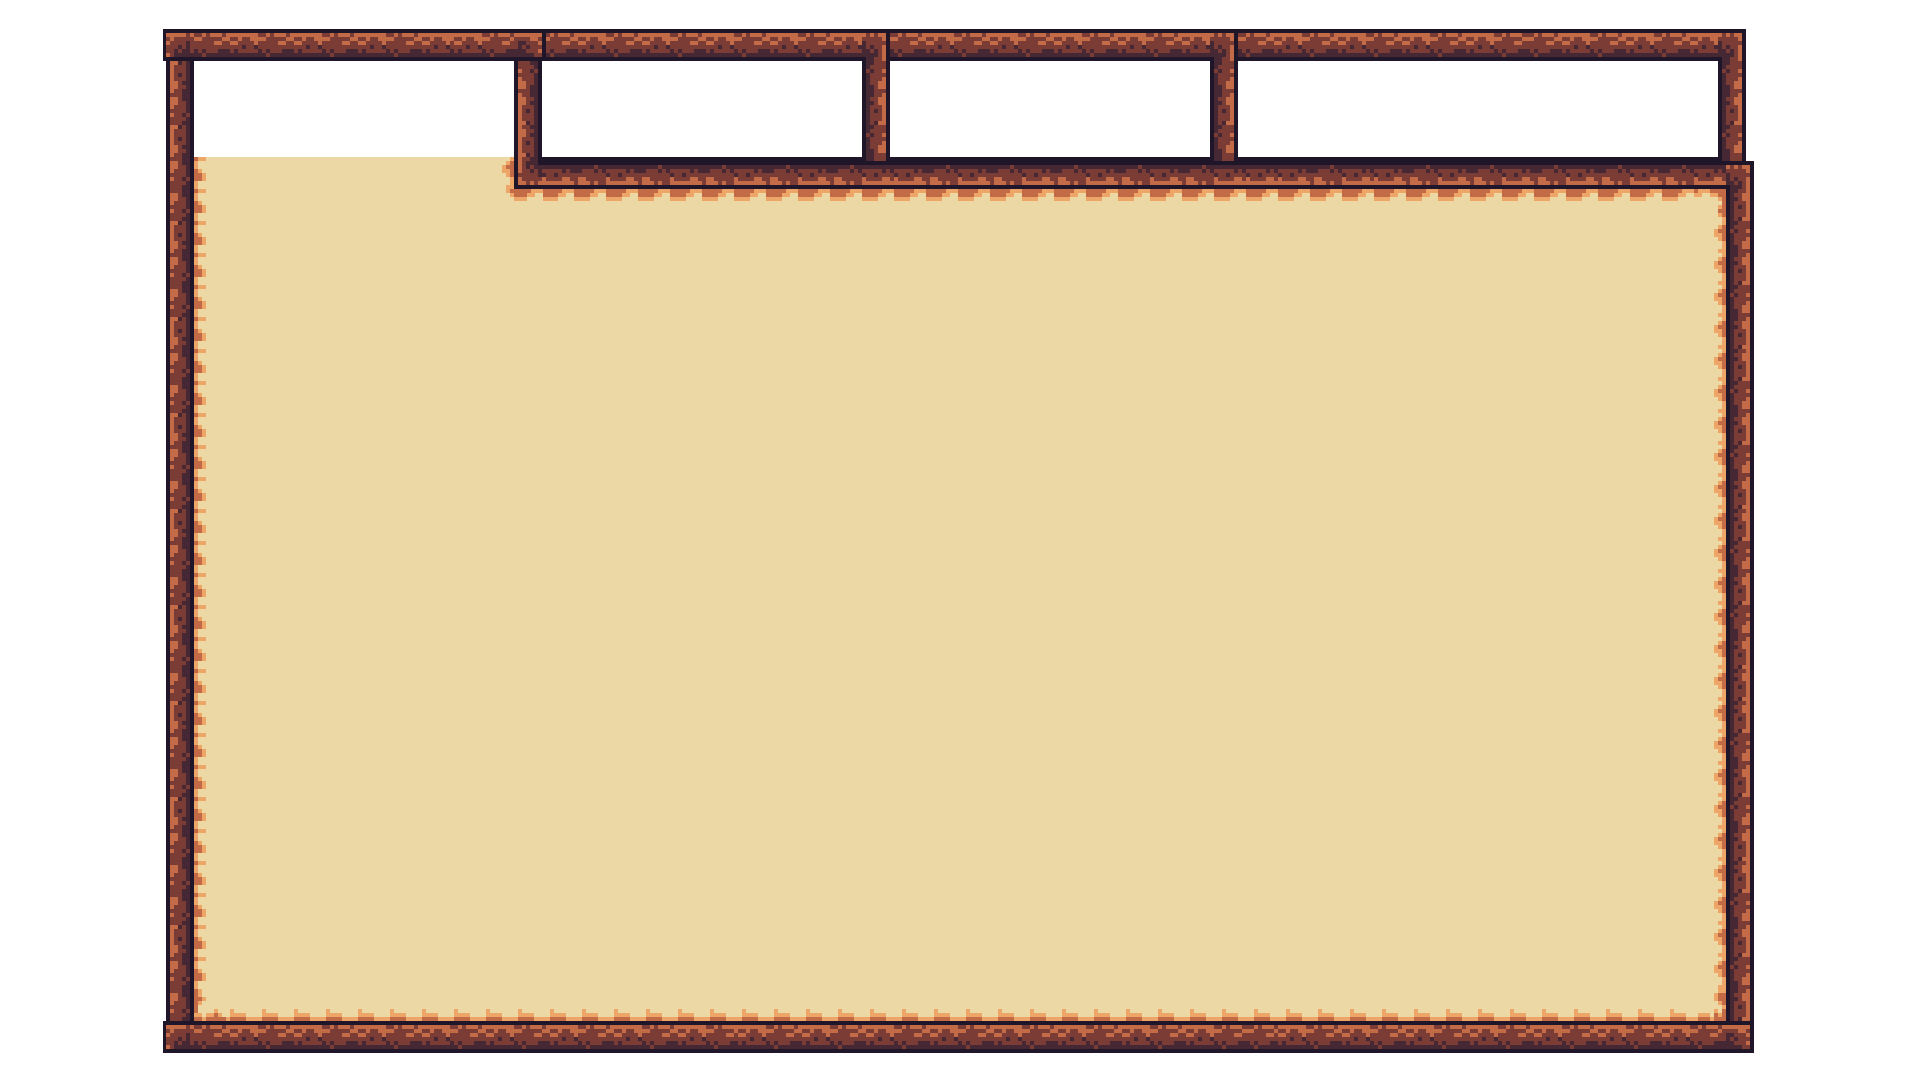
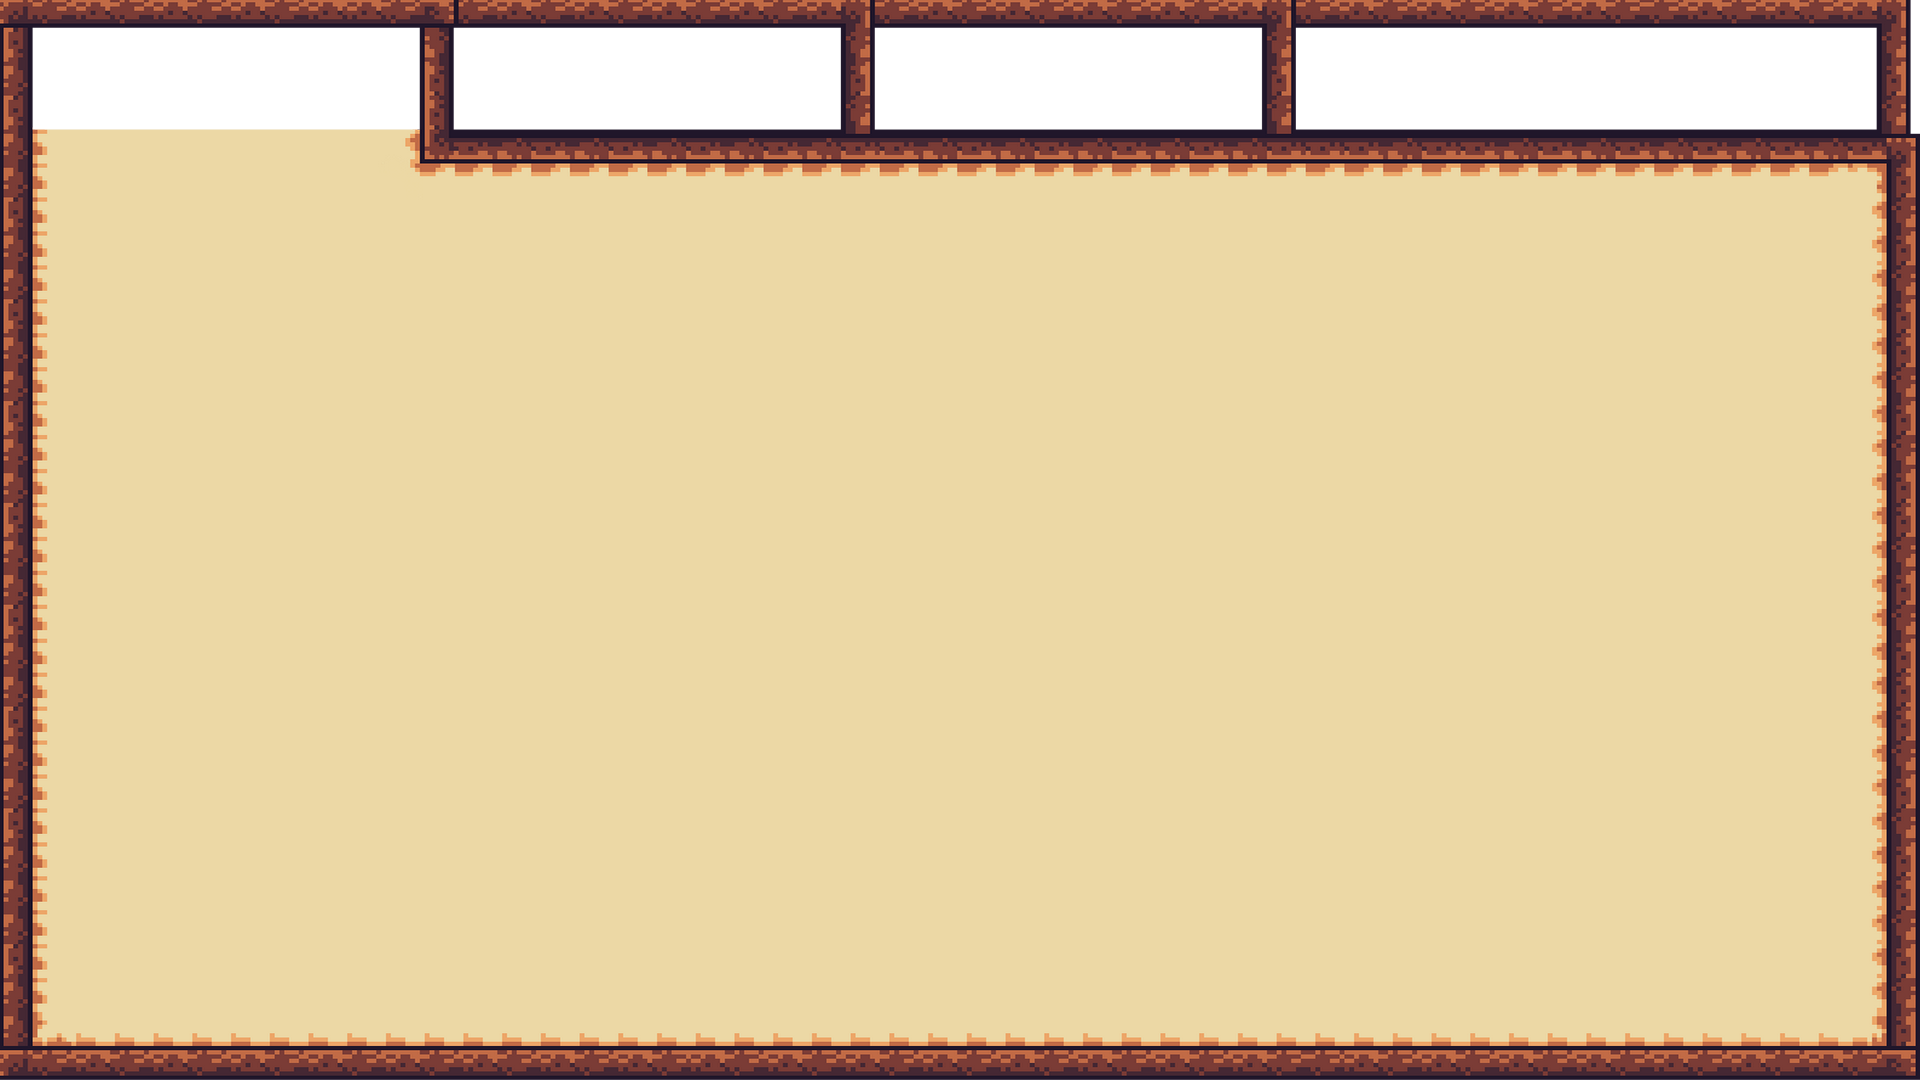
feat (menu.c): add animation on menu

diff --git a/src/display/display_menu_player.c b/src/display/display_menu_player.c
@@ -9,16 +9,16 @@
 #include "printf.h"
 #include "rpg.h"
 
-void display_stat(game_t *game, sfEvent *event)
+void display_player(game_t *game, sfEvent *event)
 {
     for (int e = 0; game->scenes[MENU_PLAYER].elements[e]; e++)
         draw_element(game->window, game->scenes[MENU_PLAYER].elements[e]);
     for (int b = 0; game->scenes[MENU_PLAYER].buttons[b]; b++) {
         if (event->type == sfEvtMouseButtonPressed &&
-            is_click(game, b, MENU_PLAYER)) {
+            is_click(game, b, MENU_PLAYER) && b != 0) {
             draw_clicked(game->window, game->scenes[MENU_PLAYER].buttons[b]);
             game->scenes[MENU_PLAYER].buttons[b]->action_clicked(game, b);
-        } else if (is_hoover(game, b, MENU_PLAYER))
+        } else if (is_hoover(game, b, MENU_PLAYER) && b != 0)
             draw_hoover(game->window, game->scenes[MENU_PLAYER].buttons[b]);
         else
             draw_button(game->window, game->scenes[MENU_PLAYER].buttons[b]);
@@ -35,23 +35,66 @@ void display_inventory(game_t *game, sfEvent *event)
         draw_element(game->window, game->scenes[MENU_PLAYER].elements[e]);
     for (int b = 0; game->scenes[MENU_PLAYER].buttons[b]; b++) {
         if (event->type == sfEvtMouseButtonPressed &&
-            is_click(game, b, MENU_PLAYER)) {
+            is_click(game, b, MENU_PLAYER) && b != 3) {
             draw_clicked(game->window, game->scenes[MENU_PLAYER].buttons[b]);
             game->scenes[MENU_PLAYER].buttons[b]->action_clicked(game, b);
-        } else if (is_hoover(game, b, MENU_PLAYER))
+        } else if (is_hoover(game, b, MENU_PLAYER) && b != 3)
             draw_hoover(game->window, game->scenes[MENU_PLAYER].buttons[b]);
         else
             draw_button(game->window, game->scenes[MENU_PLAYER].buttons[b]);
     }
-    return;
+}
+
+void display_stat(game_t *game, sfEvent *event)
+{
+    for (int e = 0; game->scenes[MENU_PLAYER].elements[e]; e++)
+        draw_element(game->window, game->scenes[MENU_PLAYER].elements[e]);
+    for (int b = 0; game->scenes[MENU_PLAYER].buttons[b]; b++) {
+        if (event->type == sfEvtMouseButtonPressed &&
+            is_click(game, b, MENU_PLAYER) && b != 1) {
+            draw_clicked(game->window, game->scenes[MENU_PLAYER].buttons[b]);
+            game->scenes[MENU_PLAYER].buttons[b]->action_clicked(game, b);
+        } else if (is_hoover(game, b, MENU_PLAYER) && b != 1)
+            draw_hoover(game->window, game->scenes[MENU_PLAYER].buttons[b]);
+        else
+            draw_button(game->window, game->scenes[MENU_PLAYER].buttons[b]);
+    }
+}
+
+void display_quest(game_t *game, sfEvent *event)
+{
+    for (int e = 0; game->scenes[MENU_PLAYER].elements[e]; e++)
+        draw_element(game->window, game->scenes[MENU_PLAYER].elements[e]);
+    for (int b = 0; game->scenes[MENU_PLAYER].buttons[b]; b++) {
+        if (event->type == sfEvtMouseButtonPressed &&
+            is_click(game, b, MENU_PLAYER) && b != 2) {
+            draw_clicked(game->window, game->scenes[MENU_PLAYER].buttons[b]);
+            game->scenes[MENU_PLAYER].buttons[b]->action_clicked(game, b);
+        } else if (is_hoover(game, b, MENU_PLAYER) && b != 2)
+            draw_hoover(game->window, game->scenes[MENU_PLAYER].buttons[b]);
+        else
+            draw_button(game->window, game->scenes[MENU_PLAYER].buttons[b]);
+    }
+    draw_text("NO QUEST ACTUALLY", 80, (sfVector2f){400, 600}, game->window);
 }
 
 void display_menu_player(game_t *game, sfEvent *event)
 {
+    for (int i = 0; game->scenes[MENU_PLAYER].buttons[i]; i++){
+        sfTexture_destroy(game->scenes[MENU_PLAYER].buttons[i]->base->texture);
+        game->scenes[MENU_PLAYER].buttons[i]->base->texture = sfTexture_createFromFile("ressources/UI/button1.png", NULL);
+        sfSprite_setTexture(game->scenes[MENU_PLAYER].buttons[i]->base->sprite, game->scenes[MENU_PLAYER].buttons[i]->base->texture, true);
+    }
+    game->scenes[MENU_PLAYER].buttons[game->scenes[MENU_PLAYER].tab->page]->base->texture = sfTexture_createFromFile("ressources/UI/button_menu.png", NULL);
+    sfSprite_setTexture(game->scenes[MENU_PLAYER].buttons[game->scenes[MENU_PLAYER].tab->page]->base->sprite, game->scenes[MENU_PLAYER].buttons[game->scenes[MENU_PLAYER].tab->page]->base->texture, true);
     switch(game->scenes[MENU_PLAYER].tab->page) {
-        case 0: display_stat(game, event);
+        case 0: display_player(game, event);
             break;
-        case 1: display_inventory(game, event);
+        case 1: display_stat(game, event);
+            break;
+        case 2: display_quest(game, event);
+            break;
+        case 3: display_inventory(game, event);
             break;
     }
 }

diff --git a/src/initialize/init_menu_player.c b/src/initialize/init_menu_player.c
@@ -9,39 +9,61 @@
 #include "printf.h"
 #include "rpg.h"
 
-void go_to_inventory(game_t* game, ...)
-{
-    game->scenes[MENU_PLAYER].tab->page = 1;
-}
-
-void go_to_stat(game_t* game, ...)
+void go_to_player(game_t* game, ...)
 {
     game->scenes[MENU_PLAYER].tab->page = 0;
 }
 
+void go_to_stat(game_t* game, ...)
+{
+    game->scenes[MENU_PLAYER].tab->page = 1;
+}
+
+void go_to_quest(game_t* game, ...)
+{
+    game->scenes[MENU_PLAYER].tab->page = 2;
+}
+
+void go_to_inventory(game_t* game, ...)
+{
+    game->scenes[MENU_PLAYER].tab->page = 3;
+}
+
+
 button_t **menu_player_buttons(void)
 {
-    button_t **buttons = malloc(sizeof(button_t *) * 3);
-    buttons[0] = init_button("STAT", "ressources/UI/button1.png",
-                        (sfVector2f){0, 0}, (sfVector2i){300, 100});
-    buttons[1] = init_button("INVENTORY", "ressources/UI/button1.png",
-                        (sfVector2f){480, 0}, (sfVector2i){300, 100});
-    buttons[2] = NULL;
-    buttons[0]->base->scale = (sfVector2f){0.6, 0.5};
-    buttons[0]->clicked->scale = (sfVector2f){0.6, 0.5};
-    buttons[0]->hoover->scale = (sfVector2f){0.6, 0.5};
-    buttons[0]->action_clicked = go_to_stat;
-    buttons[1]->base->scale = (sfVector2f){0.6, 0.5};
-    buttons[1]->clicked->scale = (sfVector2f){0.6, 0.5};
-    buttons[1]->hoover->scale = (sfVector2f){0.6, 0.5};
-    buttons[1]->action_clicked = go_to_inventory;
+    button_t **buttons = malloc(sizeof(button_t *) * 5);
+    buttons[0] = init_button("PLAYER", "ressources/UI/button1.png",
+                        (sfVector2f){25, 25}, (sfVector2i){300, 100});
+    buttons[1] = init_button("STAT", "ressources/UI/button1.png",
+                        (sfVector2f){492.5, 25}, (sfVector2i){300, 100});
+    buttons[2] = init_button("QUEST", "ressources/UI/button1.png",
+                        (sfVector2f){960, 25}, (sfVector2i){300, 100});
+    buttons[3] = init_button("INVENTORY", "ressources/UI/button1.png",
+                        (sfVector2f){1427.5, 25}, (sfVector2i){300, 100});
+    buttons[4] = NULL;
+    for (int i = 0; i < 4; i++) {
+        buttons[i]->base->scale = (sfVector2f){0.59, 0.5};
+        buttons[i]->clicked->scale = (sfVector2f){0.59, 0.5};
+        buttons[i]->hoover->scale = (sfVector2f){0.59, 0.5};
+        buttons[i]->base->text_pos.x *= 0.59;
+        buttons[i]->base->text_pos.y *= 0.5;
+        buttons[i]->clicked->text_pos.x *= 0.59;
+        buttons[i]->clicked->text_pos.y *= 0.5;
+        buttons[i]->hoover->text_pos.x *= 0.59;
+        buttons[i]->hoover->text_pos.y *= 0.5;
+    }
+    buttons[0]->action_clicked = go_to_player;
+    buttons[1]->action_clicked = go_to_stat;
+    buttons[2]->action_clicked = go_to_quest;
+    buttons[3]->action_clicked = go_to_inventory;
     return buttons;
 }
 
 element_t **menu_player_elements(void)
 {
     element_t **elements = malloc(sizeof(element_t *) * 3);
-    elements[0] = init_element("ressources/menu/bg_menu.png",
+    elements[0] = init_element("ressources/menu/resume.png",
             (sfVector2f){0, 0}, (sfVector2f){1920, 1080}, (sfVector2f){1, 1});
     elements[1] = NULL;
     elements[0]->rect = (sfIntRect){0, 0, 1920, 1080};
